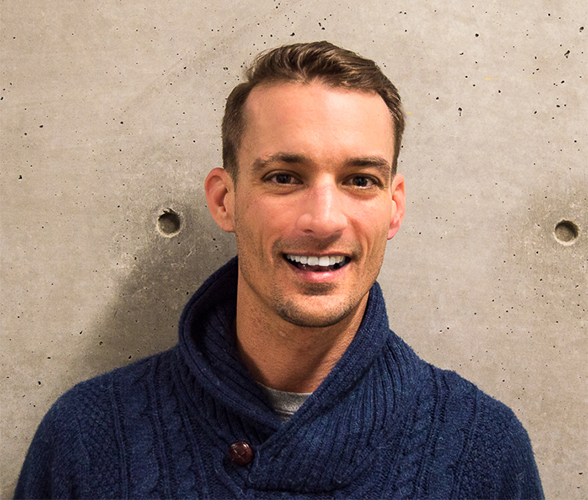
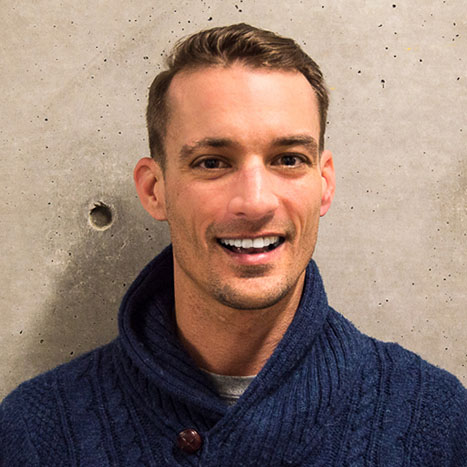
uploading aboutMe images

diff --git a/client/src/pages/MoreInfo/AboutUs.js b/client/src/pages/MoreInfo/AboutUs.js
@@ -1,13 +1,26 @@
 import React from "react";
 import "./MoreInfo.css";
 import Footer from '../../components/Footer/Footer';
-import Carousel from '../../components/Carousel/Carousel';
 
 const AboutUs = () =>
   <div className="row d-flex align-items-center mx-4 moreInfoText" style={{height:"90vh", width:"100vw", position:"absolute", top:"20vh"}} >
-    <div className="col-8 offset-2" >
-      <Carousel />
-
+    <div className="row w-100">
+    <div className="col-10 offset-1" >
+      <div className="row w-100 d-flex flex-row">
+            <div className="col-3">
+                <img className="d-block img-fluid rounded-circle" src="/assets/images/ph/alex.jpg" alt="Alex"></img>
+            </div>
+            <div className="col-3">
+                <img className="d-block img-fluid rounded-circle" src="/assets/images/ph/jason.jpg" alt="Jason"></img>
+            </div>
+            <div className="col-3">
+                <img className="d-block img-fluid rounded-circle" src="/assets/images/ph/cody.jpg" alt="Cody"></img>
+            </div>
+            <div className="col-3">
+                <img className="d-block img-fluid rounded-circle" src="/assets/images/ph/kui2.jpg" alt="Kui"></img>
+            </div> 
+      </div>
+    </div>
     </div>
     <Footer />
   </div>

diff --git a/client/src/components/Footer/Footer.js b/client/src/components/Footer/Footer.js
@@ -4,18 +4,18 @@ import "./Footer.css";
 
 const Footer = () => {
   return (
-    <div className="footer w-100 bg-dark text-white">
-      <ul className="nav justify-content-center">
-        <li className="nav-item">
-            <Link to="/ourStory" >  Our Story | </Link>
-        </li>
-        <li className="nav-item">
-            <Link to="/aboutUs" > Meet the Team  | </Link>
-        </li>
-        <li className="nav-item">
-            <Link to="/repository" > Repository</Link>
-        </li>
-      </ul>
+    <div className="footer w-100 bg-dark text-white align-content-around">
+          <ul className="nav justify-content-center">
+            <li className="nav-item">
+              <a className="nav-link" href="/ourStory">Our Story</a>
+            </li>
+            <li className="nav-item active">
+              <a className="nav-link" href="/aboutUs">Meet the Team</a>
+            </li>
+            <li className="nav-item">
+              <a className="nav-link" href="/repository">Repository</a>
+            </li>
+          </ul>    
     </div>
   )
 }

diff --git a/client/src/components/Footer/Footer.css b/client/src/components/Footer/Footer.css
@@ -1,8 +1,8 @@
-.footer a{
-  font-size: 2em;
-  color: white;
+footer a{
+  font-size: 1.5em;
+  color: rgba(255, 251, 0, 0.842);
   font-weight: lighter;
-  padding : 10px;
+  padding : 20px;
 }
 .footer a:visited, a:link {
   color: white
